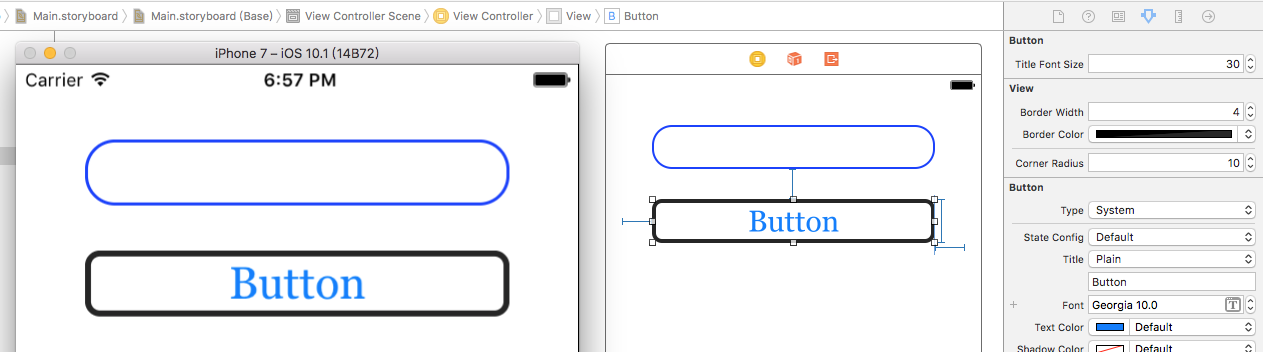
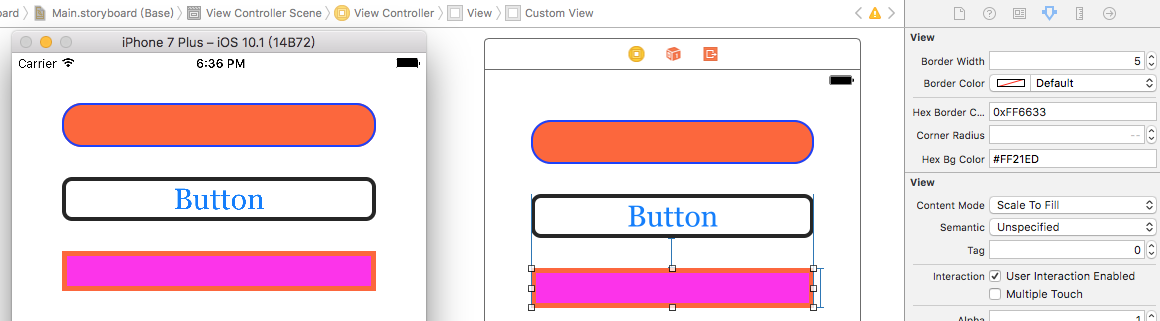
增加通过十六进制颜色值设置背景色以及边框颜色
1、颜色值格式支持：0xFFFFFF、#FFFFFF、FFFFFF
2、更新预览图

diff --git a/Extension/UIView+PCIBInspectable.m b/Extension/UIView+PCIBInspectable.m
@@ -26,12 +26,47 @@
     return [UIColor colorWithCGColor:self.layer.borderColor];
 }
 
+- (void)setHexBorderColor:(NSString *)hexBorderColor {
+    UIColor *color = [self colorWithHexString:hexBorderColor];
+    [self.layer setBorderColor:[color CGColor]];
+}
+
+- (NSString *)hexBorderColor {
+    return @"0xFFFFFF";
+}
+
 - (void)setCornerRadius:(CGFloat)cornerRadius {
     [self.layer setCornerRadius:cornerRadius];
 }
 
 - (CGFloat)cornerRadius {
     return [self.layer cornerRadius];
+}
+
+- (void)setHexBgColor:(NSString *)hexStr {
+    UIColor *color = [self colorWithHexString:hexStr];
+    [self setBackgroundColor:color];
+}
+
+- (NSString *)hexBgColor {
+    return @"0xFFFFFF";
+}
+
+#pragma mark - Private
+
+- (UIColor *)colorWithHexString:(NSString *)hexStr {
+    if ([hexStr hasPrefix:@"#"]) {
+        hexStr = [hexStr stringByReplacingOccurrencesOfString:@"#" withString:@""];
+    }
+    NSScanner *scanner = [NSScanner scannerWithString:hexStr];
+    unsigned int hex;
+    if (![scanner scanHexInt:&hex]) {
+        return [UIColor whiteColor];
+    }
+    int r = (hex >> 16) & 0xFF;
+    int g = (hex >> 8) & 0xFF;
+    int b = hex & 0xFF;
+    return [UIColor colorWithRed:r/255.0 green:g/255.0 blue:b/255.0 alpha:1.0];
 }
 
 @end

diff --git a/Extension/UIView+PCIBInspectable.h b/Extension/UIView+PCIBInspectable.h
@@ -10,8 +10,29 @@
 
 @interface UIView (PCIBInspectable)
 
+/**
+ 设置边框宽度
+ */
 @property (nonatomic, assign) IBInspectable CGFloat borderWidth;
+
+/**
+ 设置边框颜色
+ */
 @property (nonatomic, assign) IBInspectable UIColor *borderColor;
+
+/**
+ 根据十六进制颜色值设置边框颜色,如:0xFFFFFF、#FFFFFF
+ */
+@property (nonatomic, assign) IBInspectable NSString *hexBorderColor;
+
+/**
+ 设置圆角半径
+ */
 @property (nonatomic, assign) IBInspectable CGFloat cornerRadius;
+
+/**
+ 设置背景色,如:0xFFFFFF、#FFFFFF
+ */
+@property (nonatomic, assign) IBInspectable NSString *hexBgColor;
 
 @end
